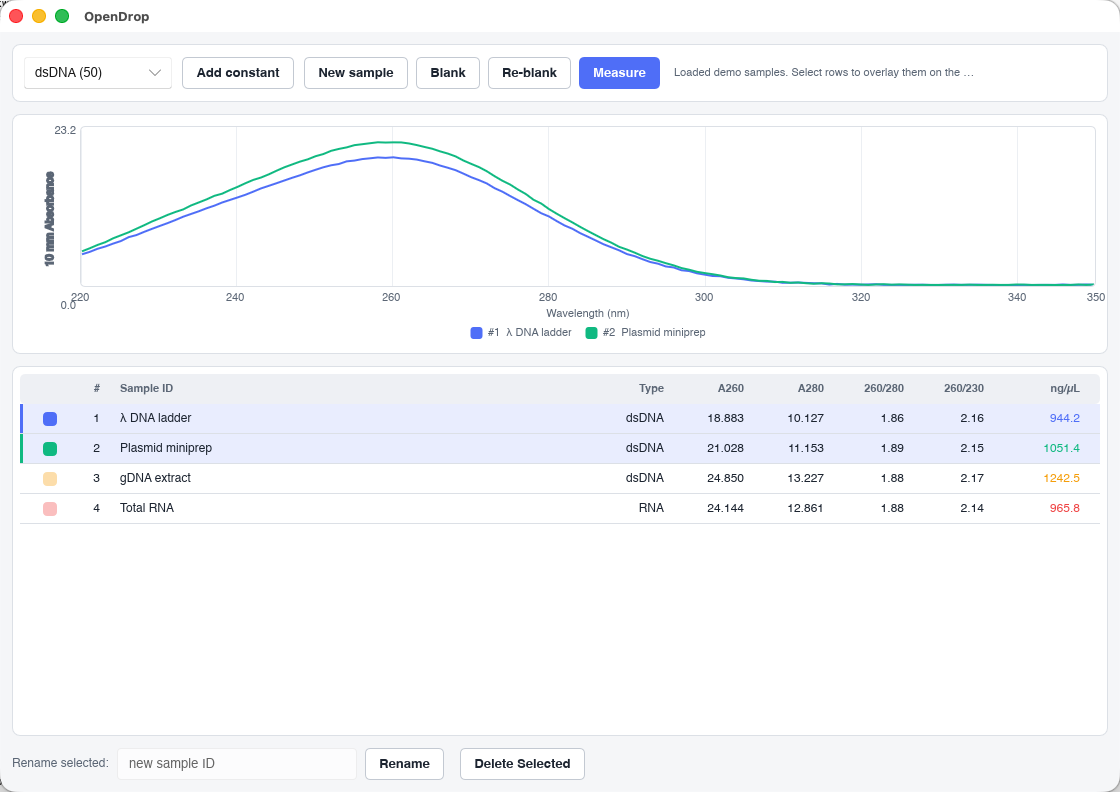
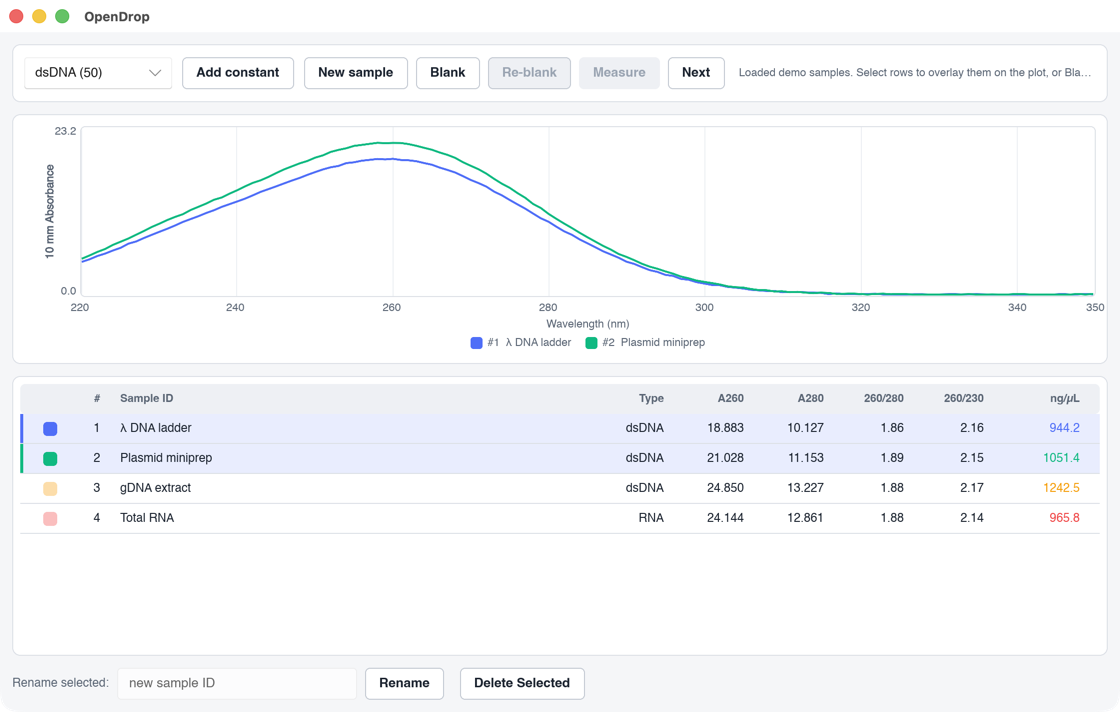
etc

diff --git a/src/main.rs b/src/main.rs
@@ -168,7 +168,15 @@ fn main() -> anyhow::Result<()> {
     }));
 
     ui.set_has_blank(has_blank);
-    ui.set_status_text("Click Blank to record a reference, then Measure.".into());
+
+    // Open populated with a few representative demo samples.
+    seed_demo(&state);
+    ui.set_status_text(if state.borrow().samples.is_empty() {
+        "Click Blank to record a reference, then Measure.".into()
+    } else {
+        "Loaded demo samples. Select rows to overlay them on the plot, or Blank to start a run."
+            .into()
+    });
 
     refresh(&ui, &state);
 
@@ -464,6 +472,47 @@ fn main() -> anyhow::Result<()> {
     Ok(())
 }
 
+/// Seed a few representative demo samples so the app opens populated (and to
+/// keep `docs/images/opendrop.png` in sync). A throwaway zero-delay mock
+/// synthesizes the spectra so startup stays instant; the first two are selected
+/// so they overlay on the plot.
+fn seed_demo(state: &Rc<RefCell<AppState>>) {
+    // (name, sample-type index): dsDNA / dsDNA / dsDNA / RNA.
+    let demos: [(&str, i32); 4] = [
+        ("λ DNA ladder", 0),
+        ("Plasmid miniprep", 0),
+        ("gDNA extract", 0),
+        ("Total RNA", 1),
+    ];
+
+    let mut dev = MockSpectrometer::new();
+    dev.set_delay(Duration::ZERO);
+    if dev.blank().is_err() {
+        return;
+    }
+
+    let mut st = state.borrow_mut();
+    for (i, (name, type_index)) in demos.iter().enumerate() {
+        let Ok(spectrum) = dev.measure() else {
+            continue;
+        };
+        let result = nucleic_acid(&spectrum, sample_type_for(*type_index, 30.0));
+        let number = st.next_number;
+        st.next_number += 1;
+        st.samples.push(Sample {
+            number,
+            id: (*name).to_string(),
+            filled: Some(Filled {
+                type_index: *type_index,
+                spectrum,
+                result,
+            }),
+            selected: i < 2, // overlay the first two by default
+        });
+    }
+    st.current = st.samples.first().map(|s| s.number);
+}
+
 /// Record a blank (simulated ~1 s), verify it took, and reflect the outcome:
 /// a green check on the pressed button plus a transient blank trace on the plot
 /// on success, or a red cross plus an alert dialog on failure. Each button's
@@ -614,8 +663,11 @@ fn type_name(index: i32) -> &'static str {
 fn refresh(ui: &AppWindow, state: &Rc<RefCell<AppState>>) {
     let st = state.borrow();
 
-    // Measure writes exactly one sample, so gate it on a single selection.
-    ui.set_single_selected(st.samples.iter().filter(|s| s.selected).count() == 1);
+    // Gate the selection-dependent controls: Measure needs exactly one row,
+    // Rename / Delete Selected need at least one.
+    let selected_count = st.samples.iter().filter(|s| s.selected).count();
+    ui.set_single_selected(selected_count == 1);
+    ui.set_has_selection(selected_count >= 1);
 
     // ---- Table rows ----
     let dash = "—".to_string();
@@ -661,7 +713,7 @@ fn refresh(ui: &AppWindow, state: &Rc<RefCell<AppState>>) {
     // ---- Plot traces ----
     // A fresh blank re-read takes over the plot until the next action; otherwise
     // overlay the selected filled samples.
-    let (traces, y_max) = match st.blank_preview.as_ref() {
+    let (traces, y_max, y_min) = match st.blank_preview.as_ref() {
         Some(spectrum) => build_preview_trace(spectrum),
         None => {
             let displayed = displayed_indices(&st.samples);
@@ -670,6 +722,17 @@ fn refresh(ui: &AppWindow, state: &Rc<RefCell<AppState>>) {
     };
     ui.set_traces(ModelRc::new(VecModel::from(traces)));
     ui.set_y_max_label(format!("{y_max:.1}").into());
+    ui.set_y_min_label(fmt_axis_min(y_min).into());
+}
+
+/// Format the bottom Y-axis label, collapsing a near-zero (possibly slightly
+/// negative) minimum to a clean "0.0" instead of "-0.0".
+fn fmt_axis_min(bottom: f64) -> String {
+    if bottom.abs() < 0.05 {
+        "0.0".to_string()
+    } else {
+        format!("{bottom:.1}")
+    }
 }
 
 /// Neutral grey for the transient blank preview trace (Theme.text-faint).
@@ -677,8 +740,9 @@ const BLANK_PREVIEW_COLOR: (u8, u8, u8) = (0x9a, 0xa4, 0xb2);
 
 /// Build the single grey trace shown right after a Blank/Re-blank. A good blank
 /// is flat and near zero, so the Y axis is floored at 1.0 AU — the reference
-/// reads as a flat baseline rather than blown-up noise.
-fn build_preview_trace(spectrum: &Spectrum) -> (Vec<PlotTrace>, f64) {
+/// reads as a flat baseline rather than blown-up noise. Returns the traces plus
+/// the Y-axis top and bottom used.
+fn build_preview_trace(spectrum: &Spectrum) -> (Vec<PlotTrace>, f64, f64) {
     let mut max_a = f64::MIN;
     let mut min_a = f64::MAX;
     for (wl, a) in spectrum.points() {
@@ -700,7 +764,7 @@ fn build_preview_trace(spectrum: &Spectrum) -> (Vec<PlotTrace>, f64) {
         color: Color::from_rgb_u8(r, g, b),
         label: "Blank (preview)".into(),
     };
-    (vec![trace], top)
+    (vec![trace], top, bottom)
 }
 
 /// Indices of the samples shown on the plot: the selected *filled* ones. Empty
@@ -716,11 +780,11 @@ fn displayed_indices(samples: &[Sample]) -> Vec<usize> {
 
 /// Build the overlaid plot traces (SVG paths in a 0..1000 viewbox) for the
 /// displayed samples, sharing a common auto-scaled Y axis. Every index in
-/// `displayed` is guaranteed to be a filled sample. Returns the traces and the
-/// Y-axis maximum used.
-fn build_traces(samples: &[Sample], displayed: &[usize]) -> (Vec<PlotTrace>, f64) {
+/// `displayed` is guaranteed to be a filled sample. Returns the traces plus the
+/// Y-axis top and bottom used.
+fn build_traces(samples: &[Sample], displayed: &[usize]) -> (Vec<PlotTrace>, f64, f64) {
     if displayed.is_empty() {
-        return (Vec::new(), 1.0);
+        return (Vec::new(), 1.0, 0.0);
     }
 
     // Shared Y scaling across every displayed spectrum in the plotted window.
@@ -754,7 +818,7 @@ fn build_traces(samples: &[Sample], displayed: &[usize]) -> (Vec<PlotTrace>, f64
             }
         })
         .collect();
-    (traces, top)
+    (traces, top, bottom)
 }
 
 /// The spectrum of a sample known to be filled (panics otherwise — callers only